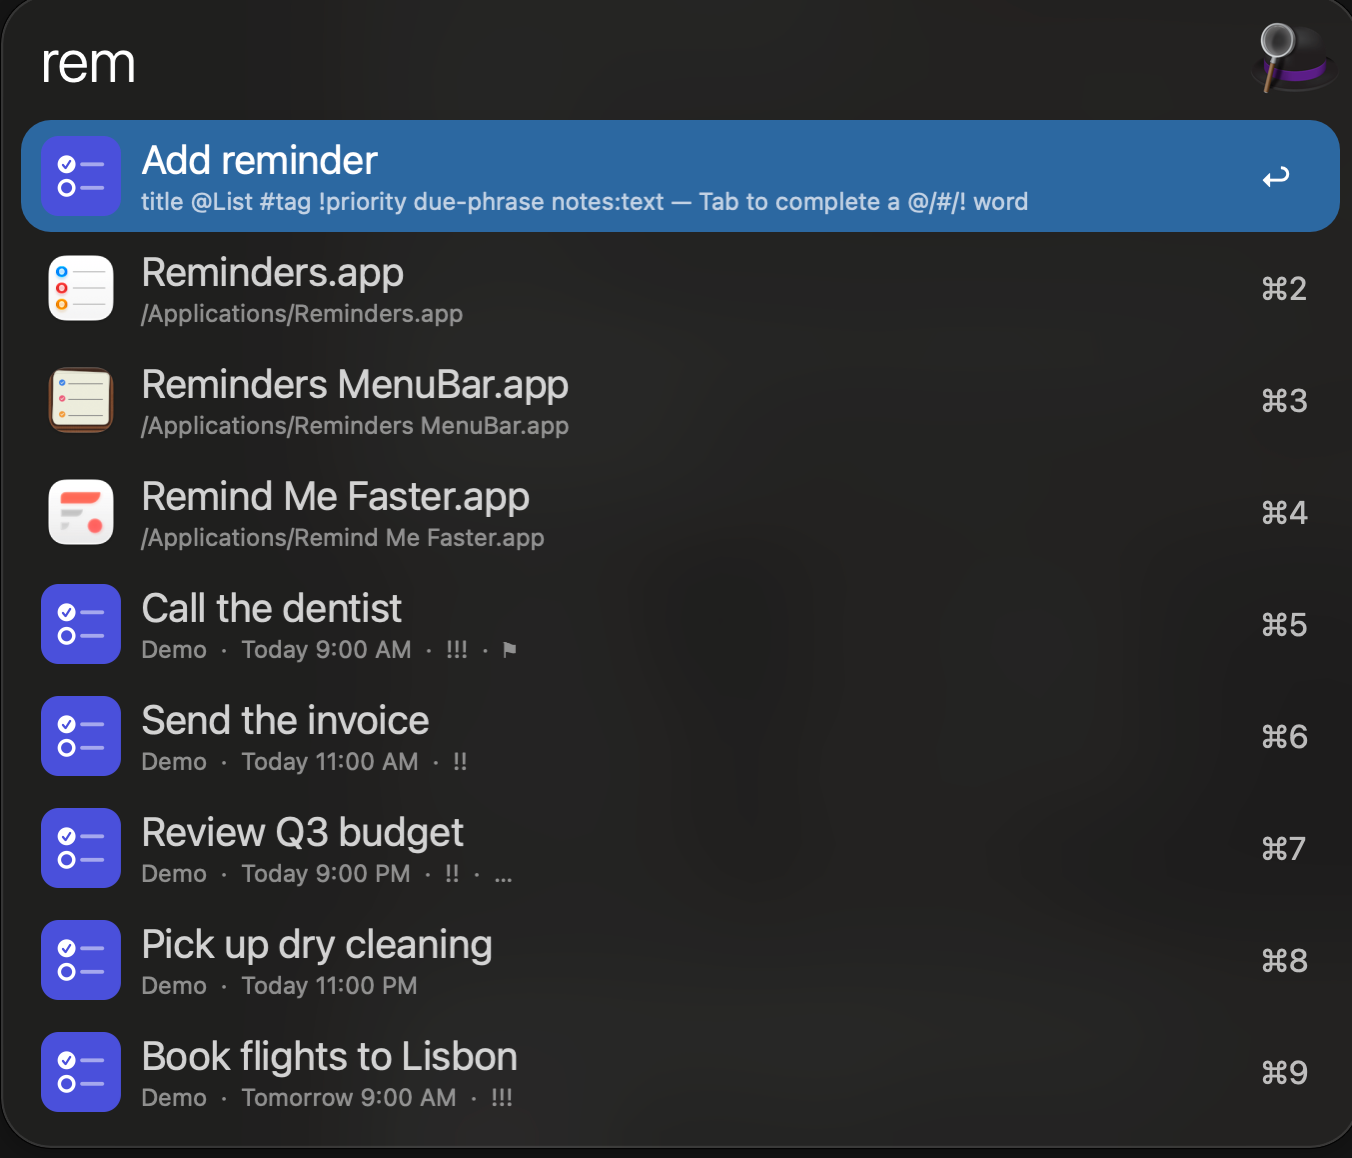
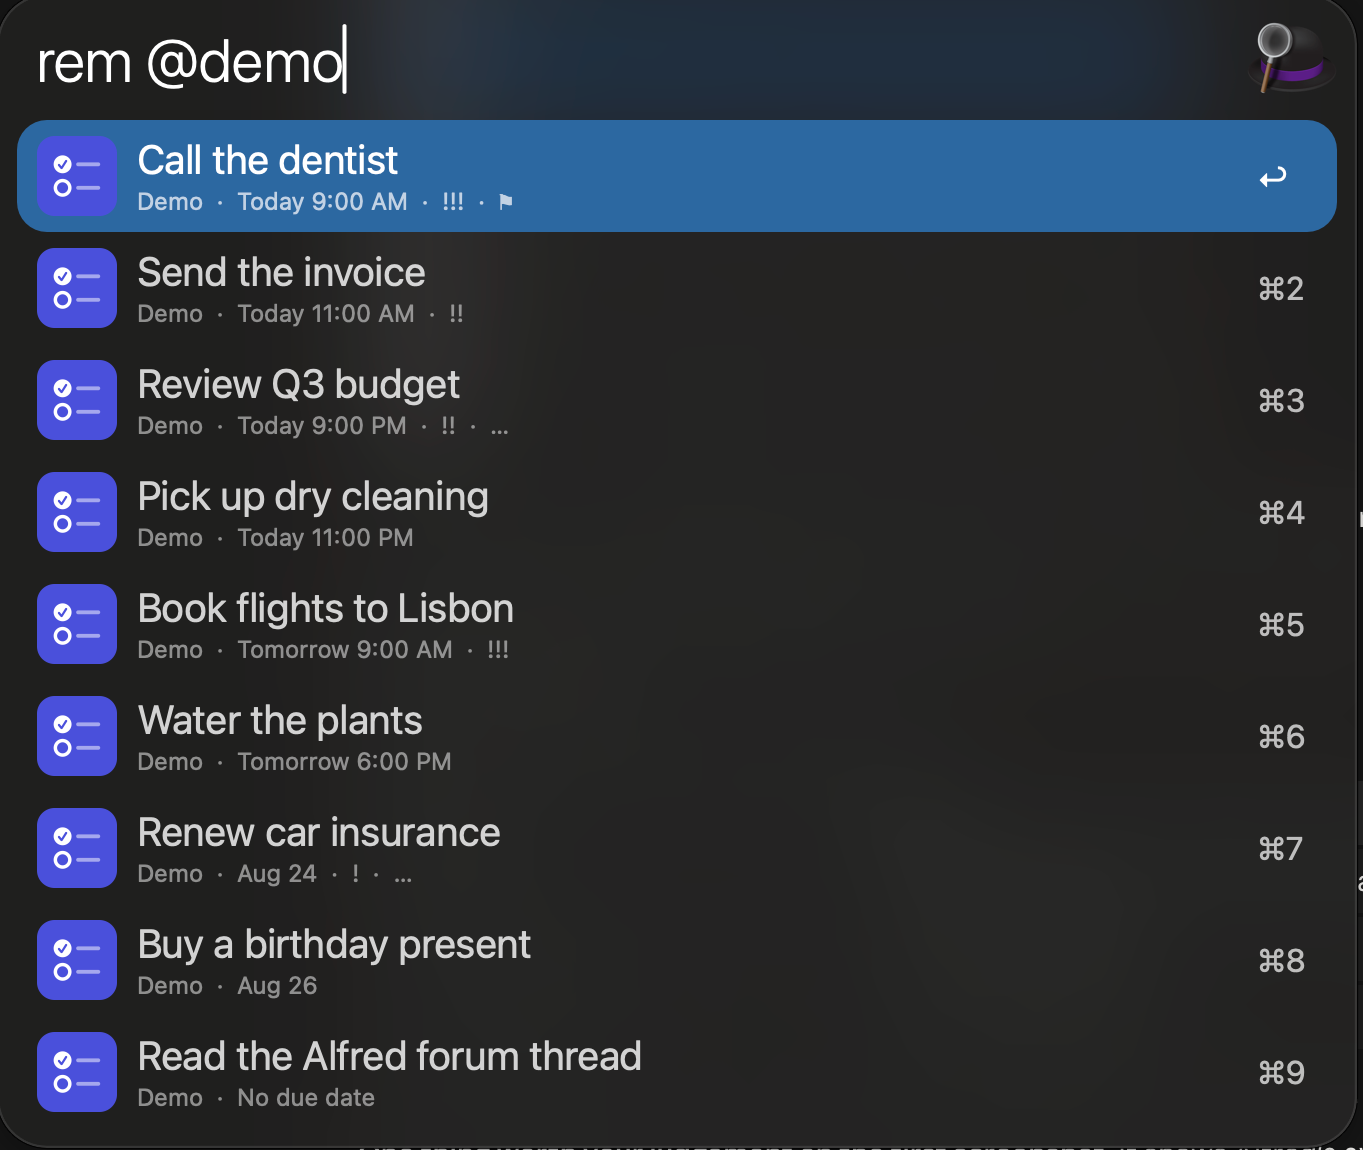
Recapture the lead screenshot scoped to @demo
The first version was bare `rem`, where Alfred's own app matches
(Reminders.app, Reminders MenuBar.app, Remind Me Faster.app) rank above
the workflow's results because `rem` prefix-matches those names — honest,
but it pushed the actual reminders to ⌘5 in the image a reader judges
the workflow by.

Scoping to `@demo` shows the results list clean, and puts the scope
syntax in the query bar where it doubles as documentation.

diff --git a/README.md b/README.md
@@ -7,7 +7,7 @@ reschedule something or tick it off. Changes sync through Apple's own
 Reminders database, so they show up on your iPhone and iPad like any other
 edit.
 
-![Browsing reminders with the rem keyword — each row shows its list, due date, priority and flag](docs/screenshots/browse.png)
+![Browsing the Demo list — each row shows its list, due date, priority markers and flag](docs/screenshots/browse.png)
 
 ## Usage
 
